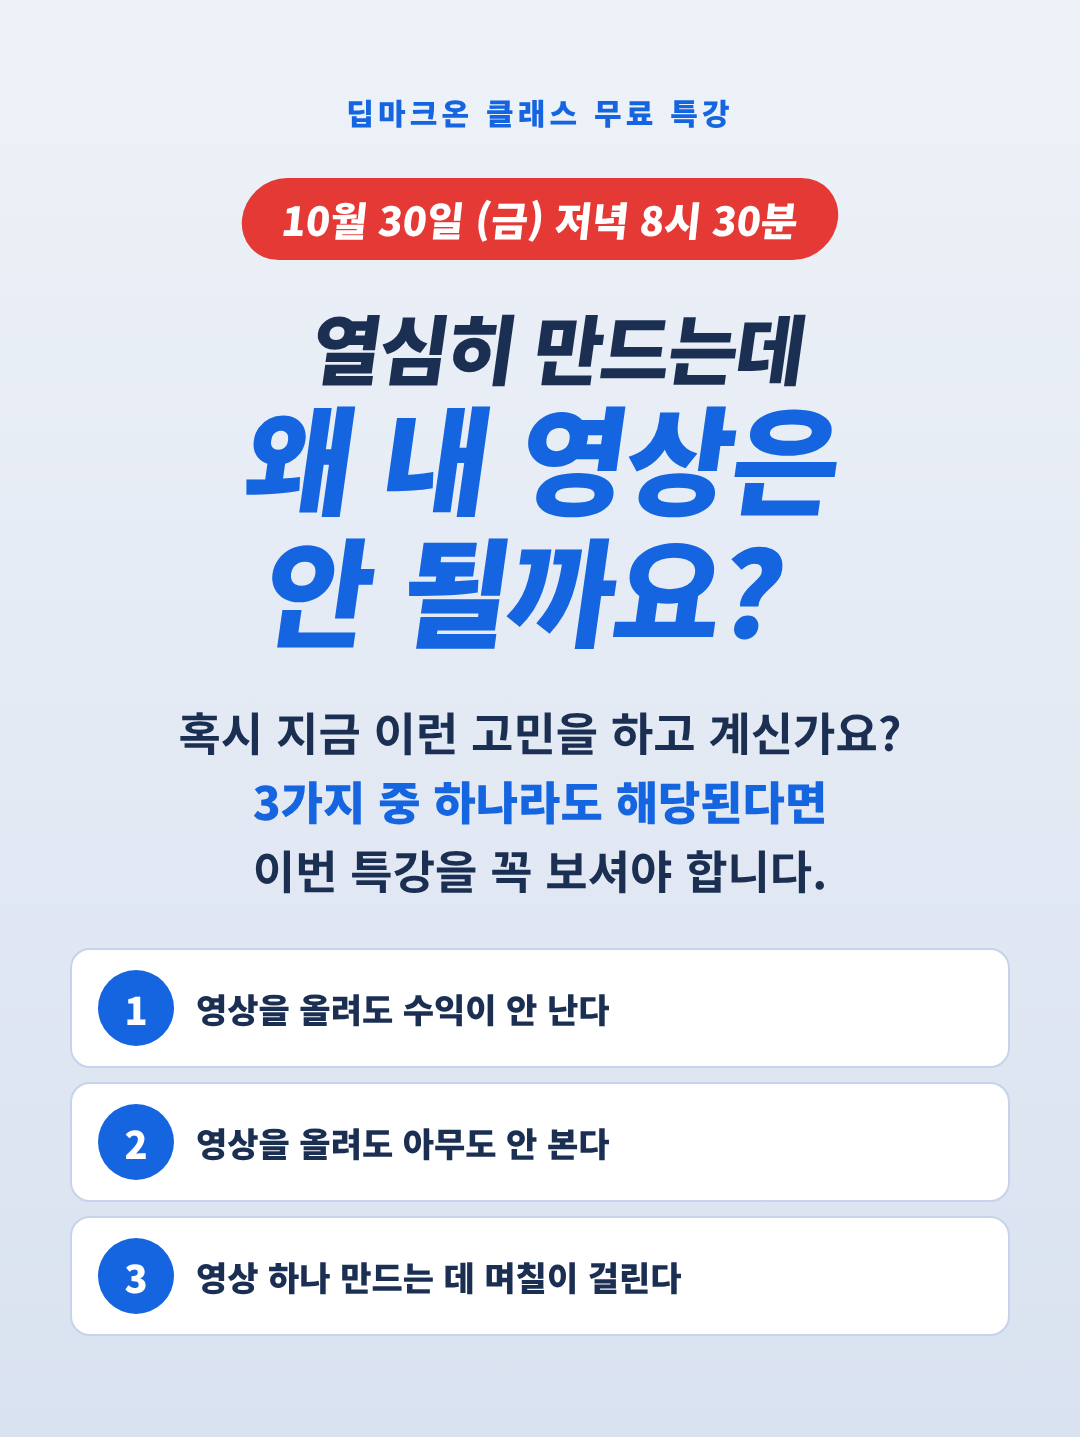
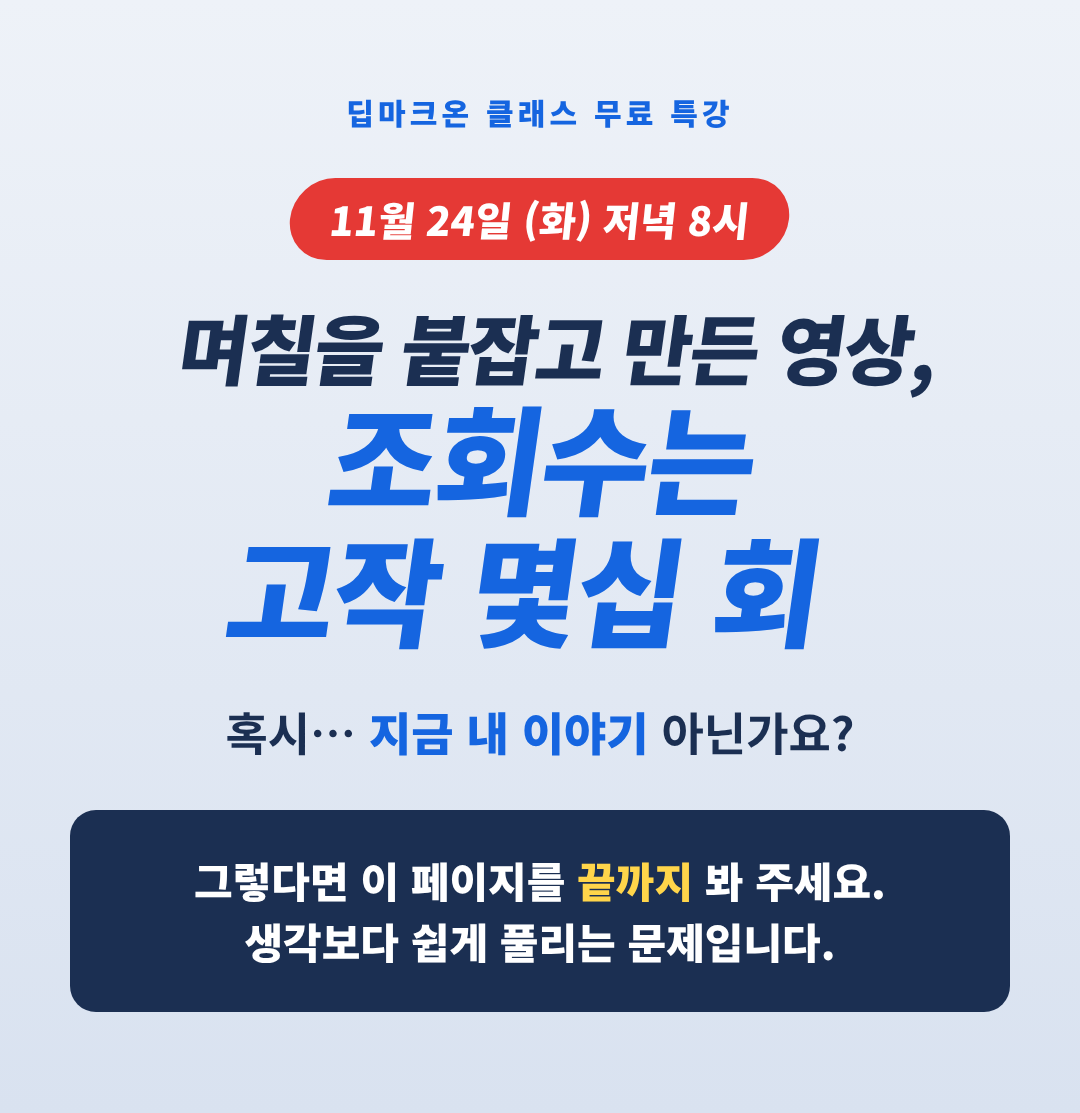
무료 특강 랜딩을 기승전결 순서로 재구성하고 롱폼 자동화 프로그램 소개 추가, 날짜·줌 링크 변경
Claude-Session: https://claude.ai/code/session_013xUGefzZAysaz3RxF6ietr

diff --git a/standalone/free-lecture/source.html b/standalone/free-lecture/source.html
@@ -48,17 +48,26 @@
 </head>
 <body>
 
-<!-- 1. 문제 제기 -->
-<section class="sheet" id="f1">
+<!-- 기: 지나가던 사람을 멈춰 세우기 -->
+<section class="sheet" id="hook">
   <div class="brand">딥마크온 클래스 무료 특강</div>
-  <div class="free"><span class="tag">10월 30일 (금) 저녁 8시 30분</span></div>
-  <h1 class="big"><span class="sm dark">열심히 만드는데</span>왜 내 영상은<br>안 될까요?</h1>
-  <p class="q">혹시 지금 이런 고민을 하고 계신가요?<br><b>3가지 중 하나라도 해당된다면</b><br>이번 특강을 꼭 보셔야 합니다.</p>
-  <div class="steps">
-    <div><b>1</b><span>영상을 올려도 수익이 안 난다</span></div>
-    <div><b>2</b><span>영상을 올려도 아무도 안 본다</span></div>
-    <div><b>3</b><span>영상 하나 만드는 데 며칠이 걸린다</span></div>
-  </div>
+  <div class="free"><span class="tag">11월 24일 (화) 저녁 8시</span></div>
+  <h1 class="big"><span class="sm dark">며칠을 붙잡고 만든 영상,</span>조회수는<br>고작 몇십 회</h1>
+  <p class="q">혹시… <b>지금 내 이야기</b> 아닌가요?</p>
+  <div class="verdict">그렇다면 이 페이지를 <em>끝까지</em> 봐 주세요.<br>생각보다 쉽게 풀리는 문제입니다.</div>
+</section>
+
+<!-- 승: 보는 사람의 고민 짚어 주기 -->
+<section class="sheet" id="empathy">
+  <div class="eyebrow">맞아요, 다들 여기서 멈춥니다</div>
+  <h1 class="big"><span class="sm dark">이런 마음,</span>한 번쯤<br>드셨죠?</h1>
+  <ul class="checks">
+    <li><span class="x">?</span><div><h4>"편집 프로그램 켜는 것부터 막막해요"</h4><p>버튼도 많고 용어도 어렵고, 시작도 전에 지칩니다.</p></div></li>
+    <li><span class="x">?</span><div><h4>"열심히 올렸는데 아무도 안 봐요"</h4><p>공들인 만큼 서운함도 커집니다.</p></div></li>
+    <li><span class="x">?</span><div><h4>"영상 하나에 며칠씩 걸려요"</h4><p>이렇게 해서 언제 꾸준히 올리나 싶습니다.</p></div></li>
+    <li><span class="x">?</span><div><h4>"이 나이에 내가 할 수 있을까요?"</h4><p>수익화는 젊은 사람들 이야기 같습니다.</p></div></li>
+  </ul>
+  <div class="verdict">당신 잘못이 아닙니다.<br><em>방법을 몰랐을 뿐</em>입니다.</div>
 </section>
 
 <!-- 2. 수익화가 안 되는 분들의 특징 -->
@@ -118,16 +127,34 @@
   </div>
 </section>
 
+<!-- 전: 내 방법 — 롱폼 영상 자동화 프로그램 -->
+<section class="sheet" id="program">
+  <div class="eyebrow">딥마크온 클래스의 방법</div>
+  <h1 class="big"><span class="sm dark">롱폼 영상</span>자동화 프로그램</h1>
+  <p class="q">이미지 · 나레이션 · 컷편집,<br><b>클릭 한 번</b>이면 모두 끝납니다.</p>
+  <div class="steps">
+    <div><b>1</b><span>🖼 이미지 자동 생성<small>대본 장면에 맞는 이미지를 알아서 만들어요</small></span></div>
+    <div><b>2</b><span>🎙 나레이션 자동 제작<small>AI 목소리로 읽어 주고 자막까지 맞춰요</small></span></div>
+    <div><b>3</b><span>✂ 컷편집 자동 완성<small>장면 배치 · 움직임 효과 · 자막 정리를 한 번에</small></span></div>
+  </div>
+  <div class="hero-num"><span class="b">이 모든 과정이</span><span class="a">클릭 한 번</span></div>
+  <div class="vs">
+    <div class="before"><h4>지금까지는</h4><ul><li>이미지 한 장씩</li><li>나레이션 따로</li><li>컷편집 손으로</li><li>며칠씩 걸림</li></ul></div>
+    <div class="after"><h4>프로그램과 함께</h4><ul><li>이미지 자동</li><li>나레이션 자동</li><li>컷편집 자동</li><li>1시간이면 완성</li></ul></div>
+  </div>
+  <div class="verdict">그래서 <em>누구나 쉽게</em> 영상을 만들고,<br><em>누구나 쉽게</em> 수익화에 도전할 수 있습니다.</div>
+</section>
+
 <!-- 6. 특강에서 얻어 가실 것 + 신뢰 -->
-<section class="sheet" id="f6">
-  <div class="free"><span class="tag">100% 무료 특강</span></div>
+<section class="sheet" id="case">
+  <div class="eyebrow">이미 결과가 나오고 있습니다</div>
   <h1 class="big"><span class="sm dark">이번 특강에서</span>가져가실 것</h1>
   <div class="card">
     <div class="card-body">
       <div class="benefit"><div class="no">1</div><div><h4>야담 · 민담 · 설화 <em>롱폼 수익화 원리</em></h4><p>이 주제의 영상이 어떻게 수익으로 이어지는지</p></div></div>
       <div class="benefit"><div class="no">2</div><div><h4>1시간 영상 제작 <em>전 과정 공개</em></h4><p>대본부터 완성 영상까지 순서 그대로</p></div></div>
       <div class="benefit"><div class="no">3</div><div><h4>노출되는 영상의 <em>공식</em></h4><p>후킹, 썸네일, 업로드 주의사항까지</p></div></div>
-      <div class="benefit"><div class="no">4</div><div><h4>시간을 줄여 주는 <em>자동 프로그램</em></h4><p>컷편집 · 영상 자동 편집 프로그램 소개</p></div></div>
+      <div class="benefit"><div class="no">4</div><div><h4>시간을 줄여 주는 <em>자동 프로그램</em></h4><p>이미지 · 나레이션 · 컷편집 롱폼 자동화 프로그램 소개</p></div></div>
     </div>
   </div>
   <div class="stats">
@@ -135,7 +162,19 @@
     <div class="stat"><div class="n">60<span>명</span></div><div class="t">상장과 상금을<br>받으신 분</div></div>
   </div>
   <div class="verdict">이미 많은 분들이 <em>애드센스에 성공</em>하고 계십니다.<br>다음은 바로 당신 차례입니다.</div>
-  <div class="banner">10월 30일 (금) 저녁 8시 30분<small>신청서 없이 줌으로 바로 참여하세요</small></div>
+</section>
+
+<!-- 결: 부담 없이 다음 행동 권하기 -->
+<section class="sheet" id="action">
+  <div class="free"><span class="tag">100% 무료 특강</span></div>
+  <h1 class="big"><span class="sm dark">부담 갖지 마세요</span>듣기만 하셔도<br>충분합니다</h1>
+  <div class="steps">
+    <div><b>✓</b><span>참가비 0원<small>무료로 진행되는 특강입니다</small></span></div>
+    <div><b>✓</b><span>신청서 없음<small>아래 버튼 한 번이면 바로 입장해요</small></span></div>
+    <div><b>✓</b><span>궁금한 건 채팅으로<small>특강 중 편하게 물어보세요</small></span></div>
+  </div>
+  <div class="verdict">"나도 해 볼 수 있겠다"<br>그 마음이 드셨다면 <em>오늘이 시작하기 좋은 날</em>입니다.</div>
+  <div class="banner">11월 24일 (화) 저녁 8시<small>아래 버튼을 눌러 줌으로 바로 참여하세요</small></div>
 </section>
 
 <!-- 임시 썸네일 (실제 썸네일을 받으면 교체) -->

diff --git a/standalone/free-lecture.html b/standalone/free-lecture.html
@@ -116,11 +116,11 @@
     <button type="button" class="sound" id="sound-on">🔊 소리 켜고 처음부터 보기</button>
   </div>
 
-  <div class="when"><span>무료 특강</span><b>10월 30일 (금) 저녁 8시 30분</b><small>줌(Zoom) 온라인 · 신청서 없이 바로 참여</small></div>
+  <div class="when"><span>무료 특강</span><b>11월 24일 (화) 저녁 8시</b><small>줌(Zoom) 온라인 · 신청서 없이 바로 참여</small></div>
 
   <button type="button" class="thumb" id="open-landing" aria-label="무료 특강 소개 보기">
     <img src="media/free-thumb.jpg" alt="무료 특강 유튜브 1개월 챌린지 · 감동민담 · 야담 · 설화" width="966" height="483">
-    <span class="label">누구나 1시간 안에 1시간짜리 영상, 무료 특강에서 공개합니다</span>
+    <span class="label">이미지 · 나레이션 · 컷편집을 클릭 한 번으로, 무료 특강에서 공개합니다</span>
     <span class="click">클릭
       <svg viewBox="0 0 24 24" fill="none" stroke="currentColor" stroke-width="3" stroke-linecap="round" stroke-linejoin="round"><path d="M5 12h14M13 6l6 6-6 6"/></svg></span>
   </button>
@@ -132,15 +132,18 @@
 <section id="landing" class="landing" hidden>
   <div class="top"><button type="button" class="back" id="close-landing">← 처음 화면으로</button></div>
   <div class="imgs">
-    <img src="media/free-01.png" alt="열심히 만드는데 왜 내 영상은 안 될까요?">
-    <img src="media/free-02.png" alt="영상 수익화가 안 되는 분들의 특징" loading="lazy">
-    <img src="media/free-03.png" alt="영상 노출이 안 되는 분들의 특징" loading="lazy">
-    <img src="media/free-04.png" alt="영상 제작에 시간이 많이 드는 분들의 특징" loading="lazy">
-    <img src="media/free-05.png" alt="누구나 1시간 안에 1시간짜리 영상 완성" loading="lazy">
-    <img src="media/free-06.png" alt="이번 특강에서 가져가실 것" loading="lazy">
+    <img src="media/free-01.png" alt="며칠을 붙잡고 만든 영상, 조회수는 고작 몇십 회">
+    <img src="media/free-02.png" alt="이런 마음, 한 번쯤 드셨죠?" loading="lazy">
+    <img src="media/free-03.png" alt="영상 수익화가 안 되는 분들의 특징" loading="lazy">
+    <img src="media/free-04.png" alt="영상 노출이 안 되는 분들의 특징" loading="lazy">
+    <img src="media/free-05.png" alt="영상 제작에 시간이 많이 드는 분들의 특징" loading="lazy">
+    <img src="media/free-06.png" alt="누구나 1시간 안에 1시간짜리 영상 완성" loading="lazy">
+    <img src="media/free-07.png" alt="롱폼 영상 자동화 프로그램, 이미지·나레이션·컷편집 클릭 한 번" loading="lazy">
+    <img src="media/free-08.png" alt="이번 특강에서 가져가실 것, 이미 결과가 나오고 있습니다" loading="lazy">
+    <img src="media/free-09.png" alt="부담 갖지 마세요, 듣기만 하셔도 충분합니다" loading="lazy">
   </div>
   <div class="end">
-    <p><b>10월 30일 (금) 저녁 8시 30분</b><br>신청서 없이 버튼 한 번이면 특강에 참여하실 수 있어요.</p>
+    <p><b>11월 24일 (화) 저녁 8시</b><br>신청서 없이 버튼 한 번이면 특강에 참여하실 수 있어요.</p>
     <a class="join" data-zoom href="#">🎥 특강 바로 참여하기</a>
     <small>버튼을 누르면 줌(Zoom)으로 바로 연결됩니다</small>
   </div>
@@ -149,7 +152,7 @@
 
 <script>
   // 줌 링크 — 여기만 바꾸면 참여 버튼 주소가 바뀝니다
-  const ZOOM_LINK = "https://us06web.zoom.us/j/2786290106?pwd=zYuh3Oh5TUpdmktQUnM8bRY3ZjPIKh.1";
+  const ZOOM_LINK = "https://us06web.zoom.us/j/6268363794?pwd=baMfsITgJDnxGOzJxsWJBMubXoHBQK.1";
 
   document.querySelectorAll("[data-zoom]").forEach(function (a) {
     a.href = ZOOM_LINK;
